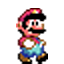
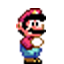
Anim

Changed region(s): [[0.25, 0.125, 0.75, 1.0]]

diff --git a/Resources/tmx/MarioTileSet.tsx b/Resources/tmx/MarioTileSet.tsx
@@ -1,0 +1,4 @@
+<?xml version="1.0" encoding="UTF-8"?>
+<tileset version="1.10" tiledversion="1.10.1" name="MarioTileSet" tilewidth="64" tileheight="64" spacing="4" margin="4" tilecount="45" columns="9">
+ <image source="MarioTileSet.png" width="616" height="344"/>
+</tileset>

diff --git a/Home/Classes/ClassAssignments/Week7_HelloMario.cpp b/Home/Classes/ClassAssignments/Week7_HelloMario.cpp
@@ -34,22 +34,17 @@ bool HelloMario::init()
 	this->addChild(level);
 
 	SpriteFrameCache::getInstance()->addSpriteFramesWithFile("mario.plist");
-	auto walkingFrames = getAnimation("mario_walk_%02d", 3);
-	auto idleFrames = getAnimation("mario_idle_%02d", 2);
-	auto fallingFrames = getAnimation("mario_fall_%02d", 1);
-	auto jumpingFrames = getAnimation("mario_jump_%02d", 1);
+	animFrames[0] = getAnimation("mario_idle_%02d", 2);
+	animFrames[1] = getAnimation("mario_walk_%02d", 3);
+	animFrames[2] = getAnimation("mario_fall_%02d", 1);
+	animFrames[3] = getAnimation("mario_jump_%02d", 1);
 
-	anims[0] = Animation::createWithSpriteFrames(idleFrames, 1.0f);
-	anims[1] = Animation::createWithSpriteFrames(walkingFrames, 1.0f);
-	anims[2] = Animation::createWithSpriteFrames(jumpingFrames, 1.0f);
-	anims[3] = Animation::createWithSpriteFrames(fallingFrames, 1.0f);
-
-	mario = Sprite::createWithSpriteFrame(idleFrames.front());
+	mario = Sprite::createWithSpriteFrame(animFrames[0].front());
 	addChild(mario);
 	mario->setPosition(origin.x + visibleSize.width / 2, origin.y + visibleSize.height / 2);
 	mario->setScale(2);
 
-	mario->runAction(RepeatForever::create(Animate::create(anims[0])));
+	mario->runAction(RepeatForever::create(Animate::create(Animation::createWithSpriteFrames(animFrames[0], 1.0f))));
 
 	controller = KeyboardControllerComponent::create(KeyboardControllerComponent::WASD);
 	mario->addComponent(controller);
@@ -141,13 +136,13 @@ void HelloMario::InitPhysics(TMXTiledMap* level)
 	_eventDispatcher->addEventListenerWithSceneGraphPriority(contactListener, this);
 }
 
-void HelloMario::ChangeAnim(AnimationState anim)
+void HelloMario::ChangeAnim(AnimationState anim, float speed)
 {
 	if (anim != animationState)
 	{
 		animationState = anim;
 		mario->stopAllActions();
-		mario->runAction(RepeatForever::create(Animate::create(anims[(int)anim])));
+		mario->runAction(RepeatForever::create(Animate::create(Animation::createWithSpriteFrames(animFrames[(int)anim], speed))));
 	}
 }
 
@@ -161,12 +156,12 @@ void HelloMario::update(float dt)
 
 		if (controller->IsLeftPressed())
 		{
-			//ChangeAnim(AnimationState::Walking);
+			ChangeAnim(AnimationState::Walking, 2.0f);
 			movingSpeed -= 200;
 		}
 		if (controller->IsRightPressed())
 		{
-			//ChangeAnim(AnimationState::Walking);
+			ChangeAnim(AnimationState::Walking, 2.0f);
 			movingSpeed += 200;
 		}
 
@@ -178,7 +173,7 @@ void HelloMario::update(float dt)
 
 		if (controller->IsUpPressed())
 		{
-			//ChangeAnim(AnimationState::Jumping);
+			ChangeAnim(AnimationState::Jumping, 1.0f);
 			marioPhysicsBody->applyImpulse({ 0, 400 });
 		}
 
@@ -205,7 +200,7 @@ void HelloMario::update(float dt)
 
 		if (animationState != Falling && mario->getPhysicsBody()->getVelocity().y < 0)
 		{
-			/// change animation to falling animation
+			ChangeAnim(AnimationState::Idle, 1.0f);
 		}
 	}
 

diff --git a/Home/Classes/ClassAssignments/Week7_HelloMario.h b/Home/Classes/ClassAssignments/Week7_HelloMario.h
@@ -39,9 +39,9 @@ private:
     Falling
   } animationState = Idle;
 
-  void ChangeAnim(AnimationState anim);
+  void ChangeAnim(AnimationState anim, float speed);
 
-  Animation* anims[4];
+  Vector<SpriteFrame*> animFrames[4];
   Sprite* mario;
   PhysicsBody* marioPhysicsBody;
   std::vector<PhysicsBody*> contacts;
